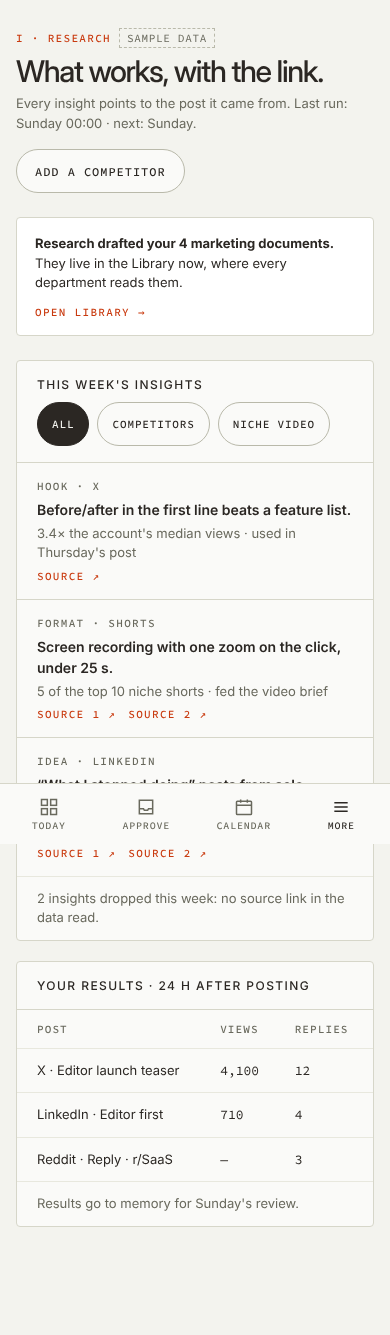
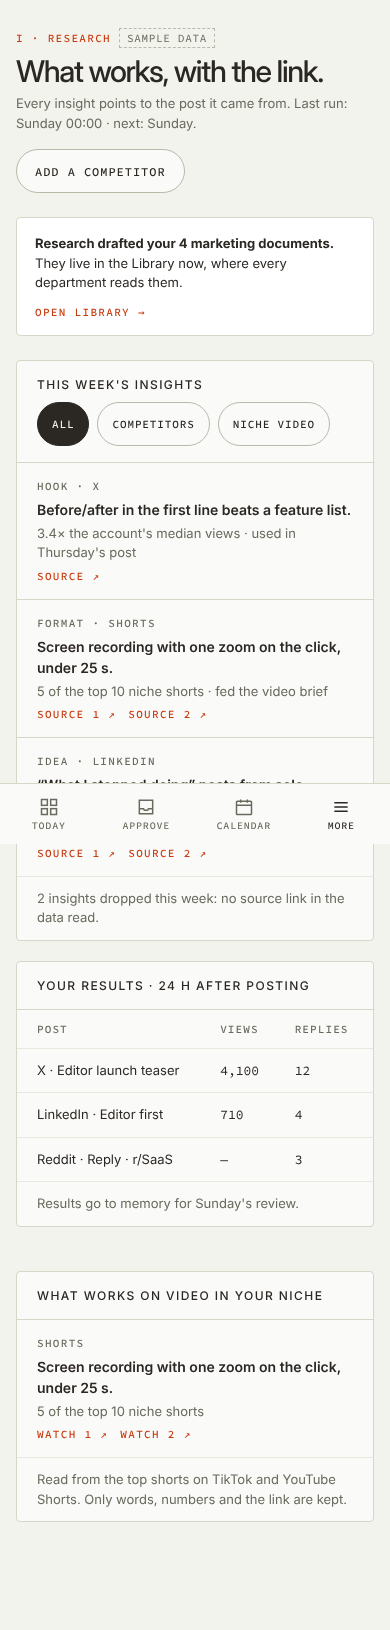
[C] C2: niche video as rows, not a table; look check for Sales and Research
At 390 px the five-column table squeezed each hook into a narrow column. Rows like
the insights above keep platform, length and format in one line and the link under it.
ui-v2-look: sales and research pass axe with no page scroll at 1440 and 390.

Claude-Session: https://claude.ai/code/session_017tYG2A4MEAtCsmZxVqkCjR

diff --git a/apps/web/components/screens/research/ResearchScreen.tsx b/apps/web/components/screens/research/ResearchScreen.tsx
@@ -153,42 +153,29 @@ function NicheVideo({ insights }: { insights: Insight[] }) {
   return (
     <Panel id="research-niche-video" className="scr-niche" title="What works on video in your niche" foot="Read from the top shorts on TikTok and YouTube Shorts. Only words, numbers and the link are kept.">
       {insights.length ? (
-        <TableWrap label="What works on video in your niche">
-          <table className="v2-table scr-table-compact" data-testid="research-niche-video">
-            <thead>
-              <tr>
-                <th>Hook</th>
-                <th>Length</th>
-                <th>Format</th>
-                <th>Why it counts</th>
-                <th>Link</th>
-              </tr>
-            </thead>
-            <tbody>
-              {insights.map((insight) => (
-                <tr key={insight.id}>
-                  <td>
-                    <span className="scr-mono is-small">{insight.platform} · </span>
-                    {insight.text}
-                  </td>
-                  <td className="scr-num">{seconds(insight.video?.seconds)}</td>
-                  <td>{insight.video?.format ?? (insight.type === "format" ? "See the hook" : "—")}</td>
-                  <td className="scr-small">
-                    {insight.video?.outlier != null ? `${insight.video.outlier.toFixed(1)}× the median` : insight.evidence}
-                    {insight.video?.views != null ? ` · ${int(insight.video.views)} views` : ""}
-                  </td>
-                  <td>
-                    {insight.sources.map((url, i) => (
-                      <a key={url} href={url} target="_blank" rel="noopener noreferrer" className="scr-mono-link">
-                        {insight.sources.length === 1 ? "Open" : `Open ${i + 1}`} ↗
-                      </a>
-                    ))}
-                  </td>
-                </tr>
-              ))}
-            </tbody>
-          </table>
-        </TableWrap>
+        <div className="scr-rows" data-testid="research-niche-video">
+          {insights.map((insight) => (
+            <article key={insight.id} className="scr-insight">
+              <span className="scr-mono is-small">
+                {[insight.platform, seconds(insight.video?.seconds), insight.video?.format].filter((part) => part && part !== "—").join(" · ")}
+              </span>
+              <div>
+                <b>{insight.text}</b>
+                <span className="scr-small scr-muted">
+                  {insight.video?.outlier != null ? `${insight.video.outlier.toFixed(1)}× the median views` : insight.evidence}
+                  {insight.video?.views != null ? ` · ${int(insight.video.views)} views` : ""}
+                </span>
+              </div>
+              <span className="scr-insight-sources">
+                {insight.sources.map((url, i) => (
+                  <a key={url} href={url} target="_blank" rel="noopener noreferrer" className="scr-mono-link">
+                    {insight.sources.length === 1 ? "Watch" : `Watch ${i + 1}`} ↗
+                  </a>
+                ))}
+              </span>
+            </article>
+          ))}
+        </div>
       ) : (
         <p className="v2-panel-body scr-muted">Nothing read yet. When the week plan has a video, Research reads the top shorts in your niche first.</p>
       )}
